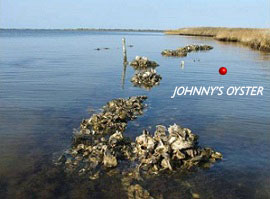
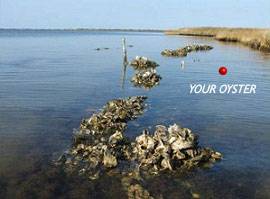
Full Version Probably

Changed region(s): [[0.6222, 0.4221, 0.9778, 0.5126]]

diff --git a/index.html b/index.html
@@ -10,54 +10,39 @@
 		<script src="http://code.jquery.com/mobile/1.4.5/jquery.mobile-1.4.5.min.js"></script>	
 		<link rel="stylesheet" type="text/css" href="page.css"/> 
 		<script>
-		function startup(){
-			var name=localStorage.getItem("oysterName");
-			document.getElementById("hey").innerHTML = name; 
-		}
+		
+			function adopt(age){
+				var name = document.getElementById("name").value; 
+				if (name == ""){
+					alert("Please enter the name");
+				}
+				else{
+					localStorage.setItem("oysterName", name);
+					localStorage.setItem("oysterAge", age);
+					window.location.href=('home.html');
+				}
+			}
 		</script>
 	</head>
 	
-	<body onload="startup()">
-		<div data-role="page" data-theme="a">
-			
-			<div data-role="header">
-				<h1>Reef Life</h1>
-			</div>
-			
-			<div data-role="content" >
-				<div id = "oyster">
-					<center>
-					<p id="hey">name</p>
-					<a href="//E:Reef Life Stuff//Reef Life//profile.html"><img id="pic" src="images/oystermed.png" width="90%" /></a> </center>
-						</br>
-				</div>
-				
-				<div id = "oysterInfo">
-					<center><div data-role="controlgroup" data-mini="true"data-type="horizontal">
-								<a href="#" data-role="button">Age: 6 months</a> 						
-							</div>
-							<img id = "map" src="images/map_small.png"/>
-							<h4 id="sam">Sam's Bar Reef</h4>
-					</center>
-				</div>
-			</div>
-			<div data-role="header">
-				<h1>Sea Feed</h1>
-			</div>
-			
-			<ul  data-role="listview">
-				<li data-icon="false"><a id="seafeed" href="#">Current Ocean Temperature- 65 degrees Fahrenheit</a></li>
-				<li data-icon="false"><a id="seafeed" href="#">Sally Shell(Sarah's Oyster) just ate Golden Plankton!</a></li>
-				<li data-icon="false"><a id="seafeed" href="#">Did you know... One oyster can filter 50 gallons of water per day</a></li>
-				<li data-icon="false"><a id="seafeed" href="#">Check out Spike's (Buffy's Oyster) New Shades!</a></li>
-				<li data-icon="false"><a id="seafeed" href="#">Nitrogen levels in the reef- 42%</a></li>
-				<li data-icon="false"><a id="seafeed" href="#">Did you know...The Billion Oyster Project has restored 1.05 acres of oyster reef area</a></li>
-				<li data-icon="false"><a id="seafeed" href="#">Sam's Bar is having a special on shellfish today!</a></li>
-				<li data-icon="false"><a id="seafeed" href="#">Johnny Oyster(Your Oyster) just grew!</a></li>
-			</ul>
-			
-		
-		
+	<body onload = "startup()">
+	<div data-role="page" data-theme="a">
+		<div data-role="header">
+			<h1>Name Your Oyster</h1>
 		</div>
+		
+		<label for="name"></label>
+		<input type="text" name="name" id="name"/>
+		
+		<div data-role="header">
+			<h1>Pick an Age</h1>
+		</div>
+		<center><div data-role="controlgroup" data-mini="true"data-type="horizontal">
+							<a href="#" data-role="button" onClick="adopt('Infant')">Infant</a> 
+							<a href="#" data-role="button" onClick="adopt('6 Months')">6 Months</a> 
+							<a href="#" data-role="button" onClick="adopt('1 Year')">1 Year</a> 
+							<a href="#" data-role="button" onClick="adopt('3 Years')">3 Years</a> 
+				</div></center>
+	</div> 
 	</body>
 </html>

diff --git a/home.html b/home.html
@@ -1,0 +1,70 @@
+<!DOCTYPE html>
+<html>
+	<head>
+		<title>Sample0 - Skeleton</title>
+		<meta name="viewport" content="width=device-width, initial-scale=1">
+		<link rel="stylesheet" href="http://code.jquery.com/mobile/1.4.5/jquery.mobile-1.4.5.min.css" />
+		<link rel="stylesheet" href="themes/reef_life_theme.min.css" />
+		<link rel="stylesheet" href="themes/jquery.mobile.icons.min.css" />
+		<script src="http://code.jquery.com/jquery-1.11.1.min.js"></script>
+		<script src="http://code.jquery.com/mobile/1.4.5/jquery.mobile-1.4.5.min.js"></script>	
+		<link rel="stylesheet" type="text/css" href="page.css"/> 
+		<script>
+		function startup(){
+			var name=localStorage.getItem("oysterName");
+			document.getElementById("hey").innerHTML = name; 
+			document.getElementById("agedisplay").innerHTML = "Age: " + localStorage.getItem("oysterAge"); 
+			var oysta = document.getElementById("oysterInfo").offsetHeight;
+			document.getElementById("oyster").style.height = oysta + "px";  
+			document.getElementById("oysterInfo").style.height = oysta + "px";  
+		}
+		function navigate(){
+			window.location.href=('profile.html');
+		}
+		</script>
+	</head>
+	
+	<body onload="startup()">
+		<div data-role="page" data-theme="a">
+			
+			<div data-role="header">
+				<h1>Reef Life</h1>
+			</div>
+			
+			<div data-role="content" >
+				<div id = "oyster">
+					<center>
+					<p id="hey">name</p>
+					<img id="pic" src="images/oystermed.png" onClick = "navigate()"width="90%" /> </center>
+						</br>
+				</div>
+				
+				<div id = "oysterInfo">
+					<center><div data-role="controlgroup" data-mini="true"data-type="horizontal">
+								<a href="#" id ="agedisplay" data-role="button">Age: 6 months</a> 						
+							</div>
+							<img id = "map" src="images/map_small.png"/>
+							<h4 id="sam">Sam's Bar Reef</h4>
+					</center>
+				</div>
+			</div>
+			<div data-role="footer">
+				<h1>Sea Feed</h1>
+			</div>
+			
+			<ul  data-role="listview">
+				<li data-icon="false"><a id="seafeed" href="#">Current Ocean Temperature- 65 degrees Fahrenheit</a></li>
+				<li data-icon="false"><a id="seafeed" href="#">Sally Shell(Sarah's Oyster) just ate Golden Plankton!</a></li>
+				<li data-icon="false"><a id="seafeed" href="#">Did you know... One oyster can filter 50 gallons of water per day</a></li>
+				<li data-icon="false"><a id="seafeed" href="#">Check out Spike's (Buffy's Oyster) New Shades!</a></li>
+				<li data-icon="false"><a id="seafeed" href="#">Nitrogen levels in the reef- 42%</a></li>
+				<li data-icon="false"><a id="seafeed" href="#">Did you know...The Billion Oyster Project has restored 1.05 acres of oyster reef area</a></li>
+				<li data-icon="false"><a id="seafeed" href="#">Sam's Bar is having a special on shellfish today!</a></li>
+				<li data-icon="false"><a id="seafeed" href="#">Johnny Oyster(Your Oyster) just grew!</a></li>
+			</ul>
+			
+		
+		
+		</div>
+	</body>
+</html>

diff --git a/profile.html b/profile.html
@@ -5,15 +5,13 @@
 	<title>Reef Life</title>
 	
 	<meta name="viewport" content="width=device-width, initial-scale=1">
-	<link rel="stylesheet" href="Project Stuff CSS.css" type="text/css"/>
+	<link rel="stylesheet" href="profile.css" type="text/css"/>
 		<link rel="stylesheet" href="http://code.jquery.com/mobile/1.4.5/jquery.mobile-1.4.5.min.css" />
 		<link rel="stylesheet" href="themes/reef_life_theme.min.css" />
 		<link rel="stylesheet" href="themes/jquery.mobile.icons.min.css" />
 		<script src="http://code.jquery.com/jquery-1.11.1.min.js"></script>
 		<script src="http://code.jquery.com/mobile/1.4.5/jquery.mobile-1.4.5.min.js"></script>
-		<script type="text/javascript" charset="utf-8">
-			document.getElementById("hey").innerHTML= localStorage.getItem("oysterName") +":6 months";
-			
+		<script type="text/javascript">
 			function check(name){
 				var prev = localStorage.getItem(name);
 				if(prev == "1"){
@@ -23,7 +21,6 @@
 					if(confirm("Are you sure you want to purchase " + name +"?")){
 						alert("Congratulations! Purchase sucessful! Remember, all proceeds go towards the Billion Oyster Project.");
 						localStorage.setItem(name, "1");
-						document.getElementById(name).data-icon = "check";
 					}
 				}
 			}
@@ -34,7 +31,10 @@
 			}
 			function startup(){
 				var name=localStorage.getItem("oysterName");
-				document.getElementById("oyster").innerHTML = name + ": 6 months"; 
+				document.getElementById("insertname").innerHTML = name + ": " + localStorage.getItem("oysterAge"); 
+			}
+			function navigate(){
+				window.location.href=('home.html');
 			}
 		</script>
 		
@@ -49,10 +49,10 @@
 			<center>
 				<table>
 					<tr>
-						<td><center><h2 id="oyster">Johnny: 6 months</h2></center></td>
+						<td><center><h2 id="insertname">Johnny: 6 months</h2></center></td>
 					</tr>
 					<tr>
-						<td><center><a href="//E:Reef Life Stuff//Reef Life//index.html"><img src="images/oysterplain2.png"/></a></center></td>
+						<td><center><img src="images/oysterplain2.png" onClick="navigate()"/></center></td>
 						
 					</tr>
 					
@@ -76,7 +76,7 @@
 					</tr>
 				</table>
 				<center><div class="fixed_stuff" data-role="collapsible-set">
-					<div data-role="collapsible" data-collapsed="false">
+					<div data-role="collapsible">
 						<h3>Food</h3>
 						<table class="table">
 							<tr>
@@ -102,7 +102,7 @@
 						</table>
 								
 					</div>
-					<div data-role="collapsible" data-collapsed="false">
+					<div data-role="collapsible">
 						<h3>Clothing</h3>
 							<table class="table">
 							<tr>
@@ -132,7 +132,7 @@
 							</tr>
 						</table>
 					</div>
-					<div data-role="collapsible" data-collapsed="false">
+					<div data-role="collapsible" >
 						<h3>Decorations</h3>
 						<table class="table">
 							<tr>

diff --git a/page.css b/page.css
@@ -4,7 +4,6 @@ border-width:5px;
 border-color:black; 
 width: 40%; 
 float: left;
-height:170px;
 }
 
 #oysterInfo{
@@ -13,7 +12,6 @@ border-width:5px;
 border-color:black; 
 width: 40%; 
 float: right;
-height:170px;
 }
 
 #map{
